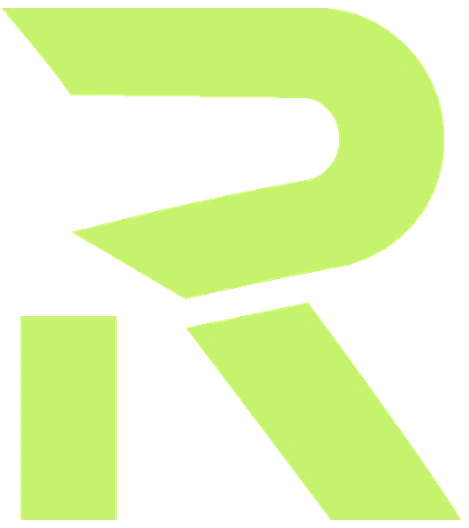
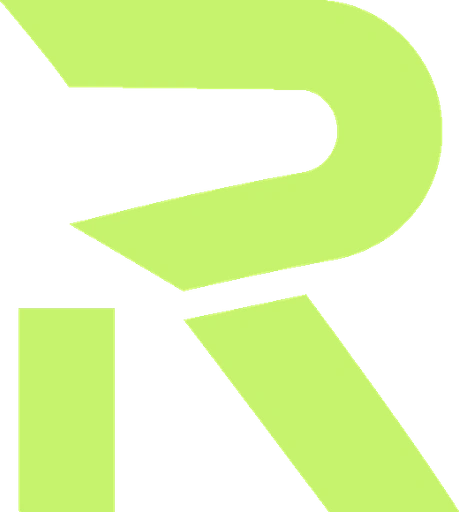
Align R glyph to same 1em height as Rakhuno wordmark

diff --git a/src/components/BrandLockup.tsx b/src/components/BrandLockup.tsx
@@ -14,27 +14,27 @@ const textSize = {
   hero: "text-5xl sm:text-7xl md:text-8xl",
 } as const;
 
-/** Geometric R as the first letter of "akhuno" — one wordmark. */
+/** Geometric R + akhuno — same height, baseline-aligned as one word. */
 export function BrandLockup({ href = "/", size = "md", className = "" }: BrandLockupProps) {
   const inner = (
     <span
-      className={`inline-flex items-center font-display font-semibold tracking-tight text-paper ${textSize[size]} ${className}`}
+      className={`inline-flex items-end font-display font-semibold leading-none tracking-tight text-paper ${textSize[size]} ${className}`}
     >
       <Image
         src="/brand/r-letter.webp"
         alt=""
-        width={80}
-        height={90}
-        className="relative top-[0.06em] mr-[0.02em] h-[0.86em] w-auto shrink-0"
+        width={90}
+        height={100}
+        className="block h-[1em] w-auto shrink-0"
         priority={size === "hero" || size === "md"}
       />
-      <span>akhuno</span>
+      <span className="leading-none">akhuno</span>
     </span>
   );
 
   if (!href) return inner;
   return (
-    <Link href={href} className="inline-flex" aria-label="Rakhuno">
+    <Link href={href} className="inline-flex leading-none" aria-label="Rakhuno">
       {inner}
     </Link>
   );
